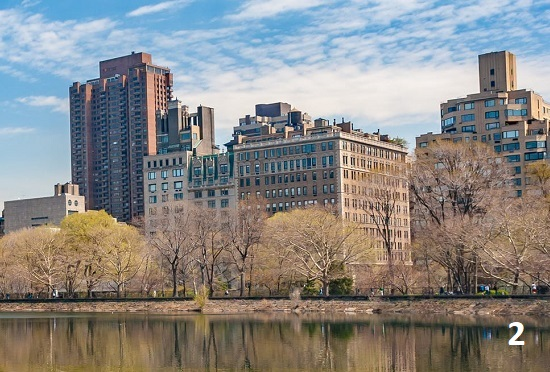
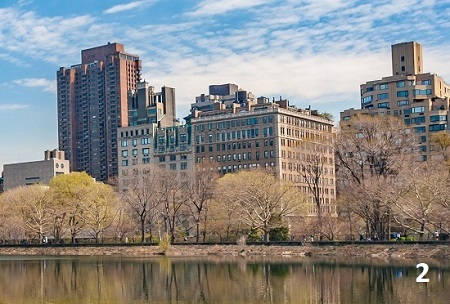
new images and srcset code

diff --git a/assignments/lesson-6/franklin-6.html b/assignments/lesson-6/franklin-6.html
@@ -19,7 +19,9 @@
     <header>
       <div class="logo">
         <figure>
-          <img src="images/rsz_stormy-weather-icon.png" alt="WeatherView Logo" sizes="5vw" srcset="images/stormy-weather-icon-55-text.png 1x, images/stormy-weather-icon-75-test.png 2x",>
+          <img src="images/rsz_stormy-weather-icon.png" alt="WeatherView Logo" sizes="5vw"
+               srcset="images/stormy-weather-icon-55-text.png 400w,
+                       images/stormy-weather-icon-75-test.png 950w,">
         </figure>
       </div>
       <div class="title">
@@ -43,13 +45,17 @@
     </nav>
 
     <main>
-      <picture>
-        <img class="full-width" src="images/franklin-original-1024.jpeg" alt="City landscape of Franklin, MN">
-      </picture>
--
+     <!-- <picture>
+        <img class="full-width" src="images/franklin-original/franklin-original-large.jpeg" alt="City landscape of Franklin, MN">
+      </picture> -->
+
       <h2>Franklin, MN</h2>
+
       <figure>
-        <img src="images/rsz_franklin-city.jpg" alt="River front of the city of Franklin, MN" sizes="50vw" srcset="images/franklincity300test.jpg 300w", srcset="images/franklin-city-test.jpg" 500w,>
+        <img src="images/franklin-original-large.jpeg" alt="Landscape of Franklin, MN" sizes="50vw"
+             srcset="images/franklin-original/franklin-city-small.jpg 400w,
+                     images/franklin-original/franklin-city-medium.jpg 550w,
+                     images/franklin-original/franklin-city-large.jpeg 950w,">
       </figure>
 
       <section class="weather-summary">
@@ -57,7 +63,9 @@
         <div class="current">
           <span class="weather-type">Sunny</span>
           <picture>
-            <img src="images/rsz_sunny-icon.png" alt="Sunny Weather Icon">
+            <img src="images/rsz_sunny-icon.png" alt="Sunny Weather Icon" sizes="100vw"
+                 srcset="images/rsz_sunny-icon.png 400w,
+                         images/rsz_stormy-weather-icon.png 950w,">
           </picture>
         </div>
 

diff --git a/assignments/lesson-6/image-test.html b/assignments/lesson-6/image-test.html
@@ -1,0 +1,17 @@
+<!DOCTYPE html>
+<html lang="en-us">
+  <body>
+hello this is actually our page
+
+    <figure>
+      <img src="images/franklin-city-test.jpg" alt="River front of the city of Franklin, MN" sizes="50vw"
+           srcset="images/franklin-original-small.jpeg 400w,
+           images/franklin-original-medium.jpg 550w,
+           images/franklin-original-large.jpeg 800w,">
+      <!--srcset="images/franklin-city-test.jpg 400w,
+      images/franklin-city.jpg 800w,
+      images/franklin-original-800.jpg 1100w"-->
+    </figure>
+
+  </body>
+</html>

diff --git a/assignments/lesson-6/styles/medium-5.css b/assignments/lesson-6/styles/medium-5.css
@@ -69,7 +69,7 @@
   /* main */
 
   main {
-    max-width: 80%;
+    max-width: 90%;
     margin-left: auto;
     margin-right: auto;
   }
@@ -121,7 +121,7 @@
   }
 
   .forecast h3 {
-    padding: 0px 0px 20px 0px;
+    padding: 20px 0px 20px 0px;
   }
 
   .forecast table {

diff --git a/assignments/lesson-6/styles/large-5.css b/assignments/lesson-6/styles/large-5.css
@@ -13,7 +13,8 @@
     max-width: 960px;
   }
 
-  h2 {
+  main > h2 {
+    display: block;
     font-size: 2.0rem;
   }
 
